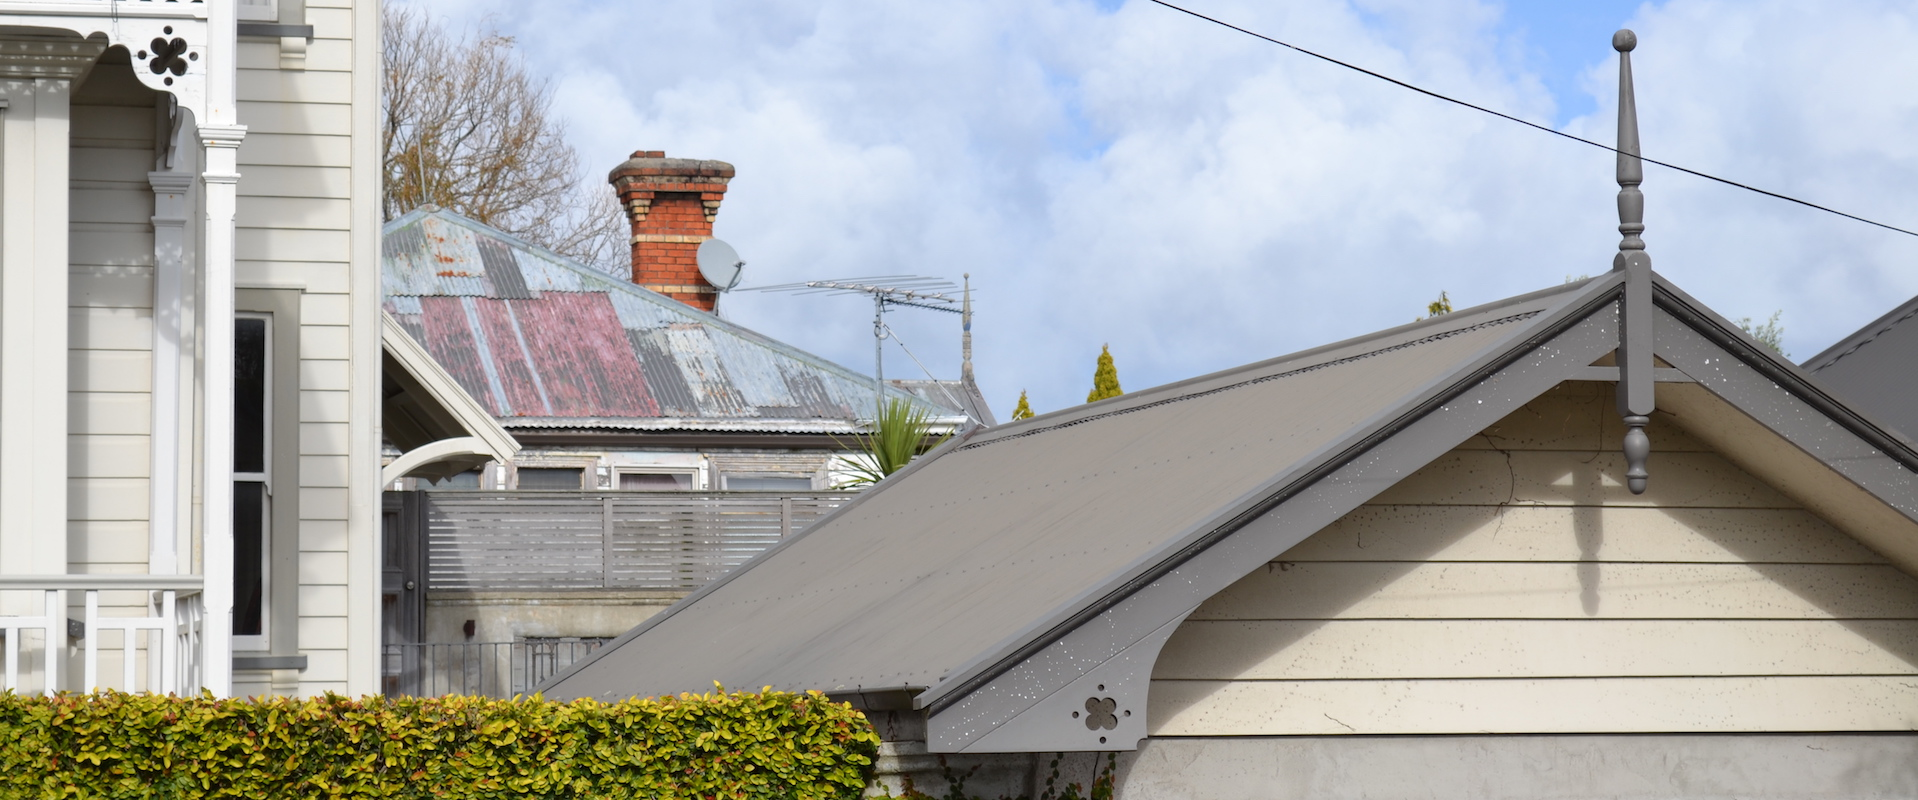
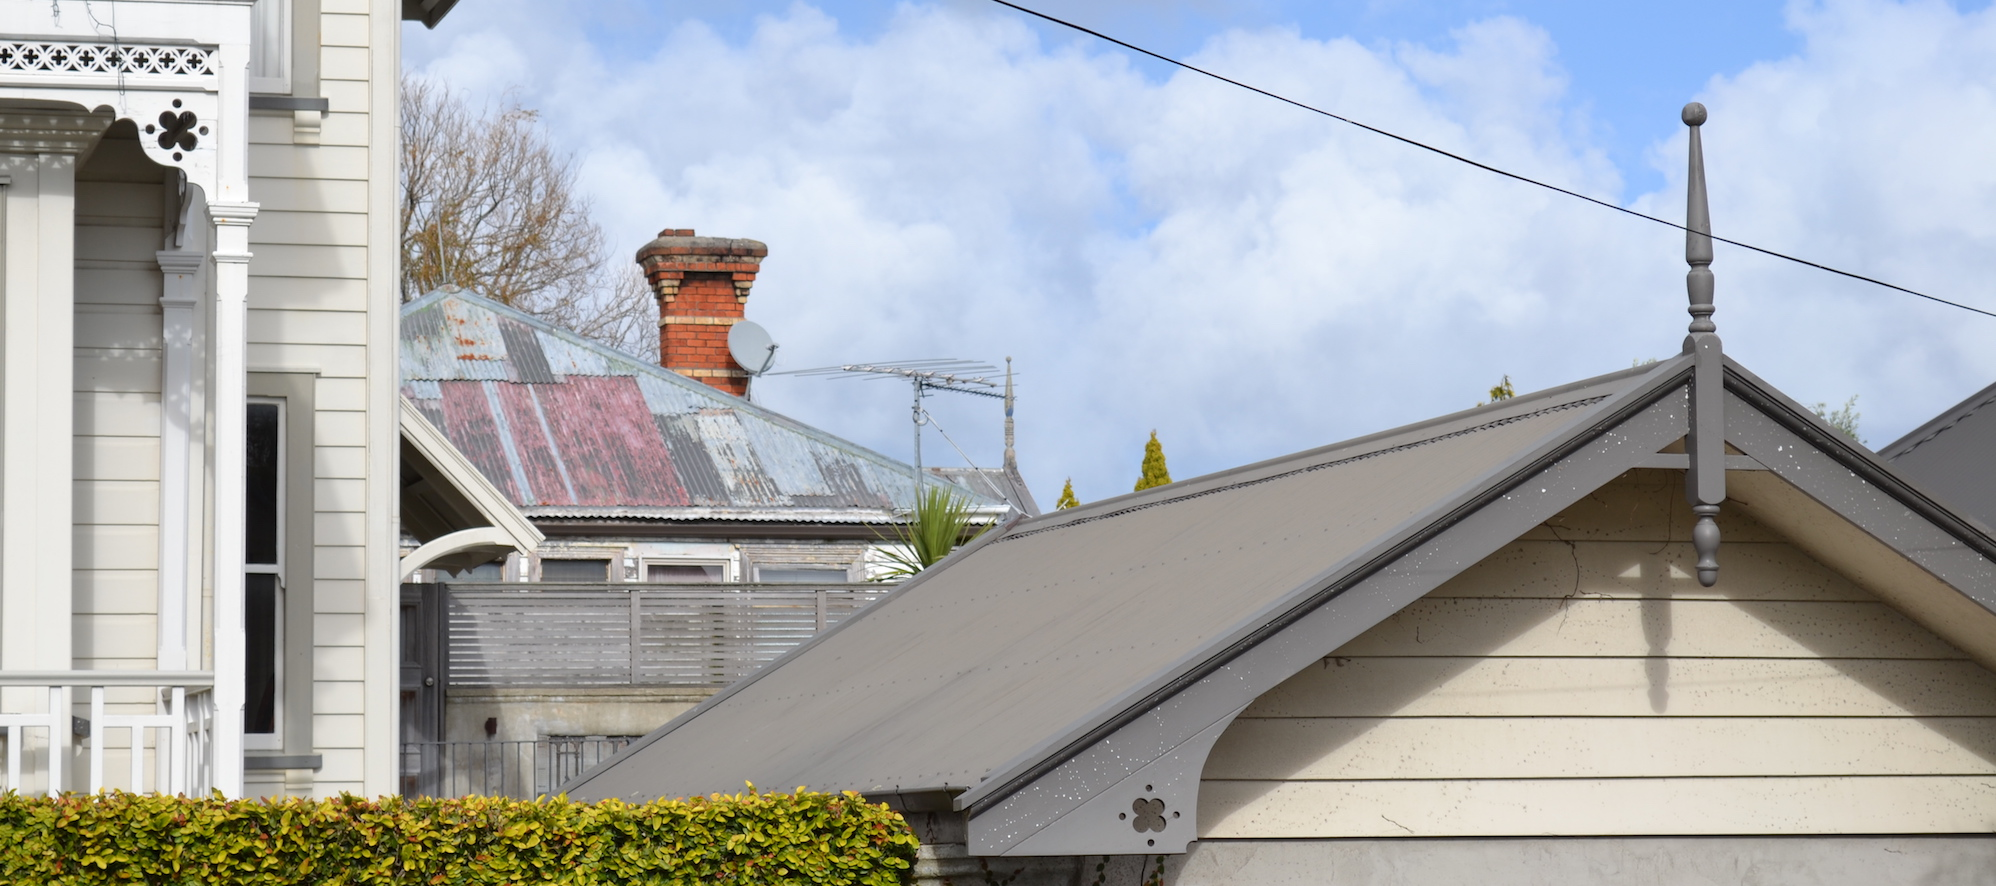
changed image opacity

diff --git a/index.html b/index.html
@@ -9,6 +9,8 @@
   <link href="css/style.css" rel="stylesheet" media="screen">
   <link href="color/default.css" rel="stylesheet" media="screen">
   <link href="https://fonts.googleapis.com/css?family=Indie+Flower" rel="stylesheet">
+<link href="https://fonts.googleapis.com/css?family=Architects+Daughter|Caveat" rel="stylesheet">
+
   <link href="https://maxcdn.bootstrapcdn.com/bootstrap/3.3.7/css/bootstrap.min.css" rel="stylesheet" integrity="sha384-BVYiiSIFeK1dGmJRAkycuHAHRg32OmUcww7on3RYdg4Va+PmSTsz/K68vbdEjh4u" crossorigin="anonymous">
   <link rel="icon" type="image/png" sizes="32x32" href="favicon-32x32.png">
   <link rel="icon" type="image/png" sizes="16x16" href="favicon-16x16.png">
@@ -126,21 +128,6 @@
           </div>
         </div>
       </div>
-      <!-- <div class="row">
-        <div class="col-xs-12 col-sm-12 col-md-12 col-lg-12">
-          <div class="box-team wow bounceInDown" data-wow-delay="0.1s">
-            <iframe width="560" height="315" src="https://www.youtube.com/embed/5WE25mhBlJY" frameborder="0" allowfullscreen></iframe>
-            <h4>A video</h4>
-            <p>Information about the video</p>
-          </div>
-        </div>
-      </div>
-      <div class="row">
-        <div class="about-text">
-          <p>Ko te moemoea a Maui kia haere ngatahi ai ratou ko ona tuakana ki te hii ika. I te hokinga mai o ona tuakana ki tatahi, ka kii atu a Maui, “ka taea e au te haramai i to koutou na taha ki te hii ika?” Engari, ko te whakautu o ona tuakana ki a ia ano, “Kao, he rangatahi noa iho koe. Kaore he wahi mau kei te waka nei, na reira me noho tau ki tatahi ke”. Ki ta Maui e kii ai, “Kaore au e whakahoha i a koutou, ka noho hei karetao noa iho, koinei taku whakapono ki a koutou.” Ko te whakautu o te tuakana, “Na to hiroki ka pohehe matou he kai noa iho ma nga ika”. Ka riri haere a Maui. “Maku e whai kaha, whai mana hei whakamana i ahau ano”, noku te mana hei whakaarahi i oku tuakana. Ka whakaritea e Maui he tatai hei whakamanahia i ona ake pukenga mo tenei mea te hii-ika. I tetahi po i a Maui e noho tau ana, ka timatahia e Maui ki te rarangahia he rakau hii-ika. I a ia e rarangahia e waiatatia e Maui tetahi karakia tawhito hei whakakaha i te rakau hii-ika. I te mutunga o tona mahi, i tangohia he kauae raro na tona tupuna i a Murirangawhenua i hoatu ki a ia. I te atatu o te ata, i kawea e Maui tona rakau hii-ika, a, ka huna a Maui ki te kei o te waka o tona tuakana.
-          </p>
-        </div>
-      </div> -->
     </div>
   </section>
 
@@ -150,7 +137,7 @@
       <div class="row">
         <div class="col-md-12">
           <div class="color-light">
-            <p class="lead wow fadeIn" data-wow-delay="2s">I am very appreciative of this platform to share stories and bring awareness to the negative impact of Trusts in terms of relationship break up and the impact on the parent who “misses out” and the children. When I reflect on my story and experience of divorce and a really shitty financial settlement, I look back on myself in that relationship and I realize how trusting and naïve I was. Now I love those traits in my character… they are sweet and kind, but they have not positioned me well in retrospect.</p>
+            <p class="lead wow fadeIn" data-wow-delay="1s">I am very appreciative of this platform to share stories and bring awareness to the negative impact of Trusts in terms of relationship break up, the impact on the parent who “misses out” and the children. When I reflect on my story and experience of divorce and a really shitty financial settlement, I look back on myself in that relationship and I realize how trusting and naïve I was. Now I love those traits in my character… they are sweet and kind, but they have not positioned me well in retrospect.</p>
           </div>
         </div>
       </div>
@@ -225,7 +212,7 @@
       <div class="row">
         <div class="col-md-12">
           <div class="color-light">
-            <p class="lead wow fadeIn" data-wow-delay="2s">The impact for my children is that there are times where their lunch boxes are often lacking in food to fill them up, let alone nourish them. Sometimes having enough food to last the week seems impossible. Somehow we get though… often with the help and support of generous friends and a kind community.</p>
+            <p class="lead wow fadeIn" data-wow-delay="1s">The impact for my children is that there are times where their lunch boxes are often lacking in food to fill them up, let alone nourish them. Sometimes having enough food to last the week seems impossible. Somehow we get though… often with the help and support of generous friends and a kind community.</p>
           </div>
         </div>
       </div>
@@ -288,7 +275,7 @@
       <div class="row">
         <div class="col-md-12">
           <div class="color-light">
-            <p class="lead wow fadeIn" data-wow-delay="2s">My advice for those in the early stages of a relationship or marriage is seek legal advice. Just because you love someone in this moment, doesn’t mean you should trust him or her in the next. When relationships break down, people change. Seeking legal advice, either as a couple or separately, at least gives you a clear understanding of what you are walking into and what you will walk out with (if anything).</p>
+            <p class="lead wow fadeIn" data-wow-delay="1s">My advice for those in the early stages of a relationship or marriage is seek legal advice. Just because you love someone in this moment, doesn’t mean you should trust him or her in the next. When relationships break down, people change. Seeking legal advice, either as a couple or separately, at least gives you a clear understanding of what you are walking into and what you will walk out with (if anything).</p>
           </div>
         </div>
       </div>

diff --git a/css/style.css b/css/style.css
@@ -67,7 +67,7 @@ h1,h2,h3,h4,h5,h6,.h1,.h2,.h3,.h4,.h5,.h6{
 	font-family: 'Open Sans', sans-serif;
 }
 
-.lead{
+.lead {
 	font-weight: 400;
 }
 
@@ -184,24 +184,26 @@ spacers
 ============================= */
 
 #spacer1{
-	background-image: url(../img/spacer/rooftops-sm.jpeg);
+	background-image: url(../img/spacer/rooftops-sm.jpg);
 	background-repeat: no-repeat;
-	font-family: 'Indie Flower', cursive;
-
+	font-family: 'Architects Daughter', cursive;
+	letter-spacing: 1px;
 }
 #spacer2{
-	background-image: url(../img/spacer/whanau-sm.jpeg);
+	background-image: url(../img/spacer/whanau-sm.jpg);
 	background-repeat: no-repeat;
-	font-family: 'Indie Flower', cursive;
-
-
+	font-family: 'Architects Daughter', cursive;
+	letter-spacing: 1px;
 }
 #spacer3{
-	background-image: url(../img/spacer/jandals-sm.jpeg);
+	background-image: url(../img/spacer/jandals-sm.jpg);
 	background-repeat: no-repeat;
-	font-family: 'Indie Flower', cursive;
+	font-family: 'Architects Daughter', cursive;
+	letter-spacing: 1px;
+}
 
-
+.spacer p {
+	color: black;
 }
 
 
@@ -249,8 +251,8 @@ intro
 .intro-text p span {
 	color:#fff;
 	text-align:center;
-	font-weight: 300;
-	font-family: 'Indie Flower', cursive;
+	font-family: 'Architects Daughter', cursive;
+	letter-spacing: 1px;
 }
 
 .brand {
@@ -377,17 +379,20 @@ media queries
 		font-size: 1.4em;
 	}
 	#spacer1{
-		background-image: url(../img/spacer/rooftops.JPG);
+		background-image: url(../img/spacer/rooftops.png);
 		min-height: 100vh;
+		width: 100%;
 	}
 	#spacer2{
-		background-image: url(../img/spacer/whanau.JPG);
+		background-image: url(../img/spacer/whanau.png);
 		min-height: 100vh;
-
+		width: 100%;
 	}
 	#spacer3{
-		background-image: url(../img/spacer/jandals.JPG);
+		background-image: url(../img/spacer/jandals.png);
 		min-height: 100vh;
+		width: 100%;
+
 
 	}
 }
